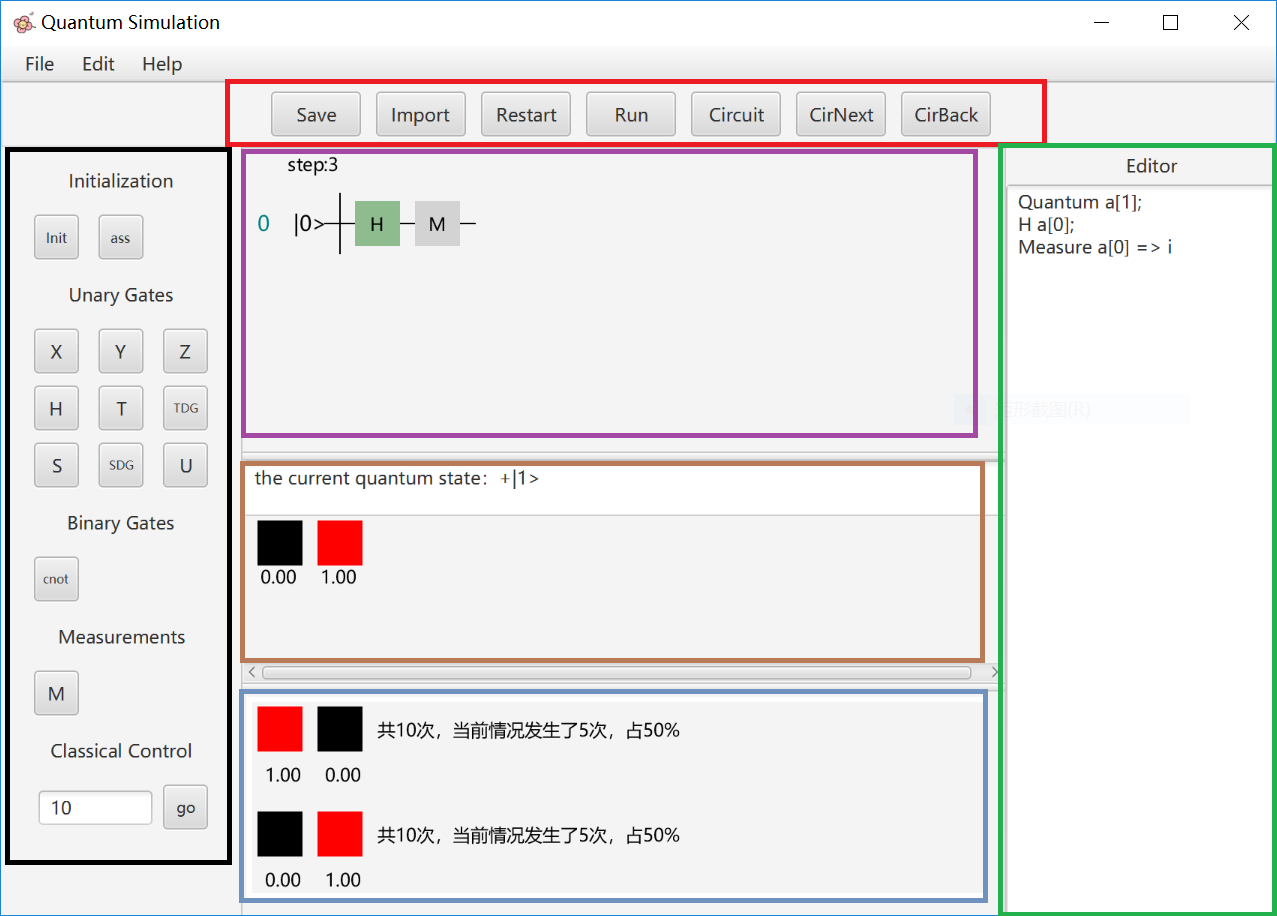
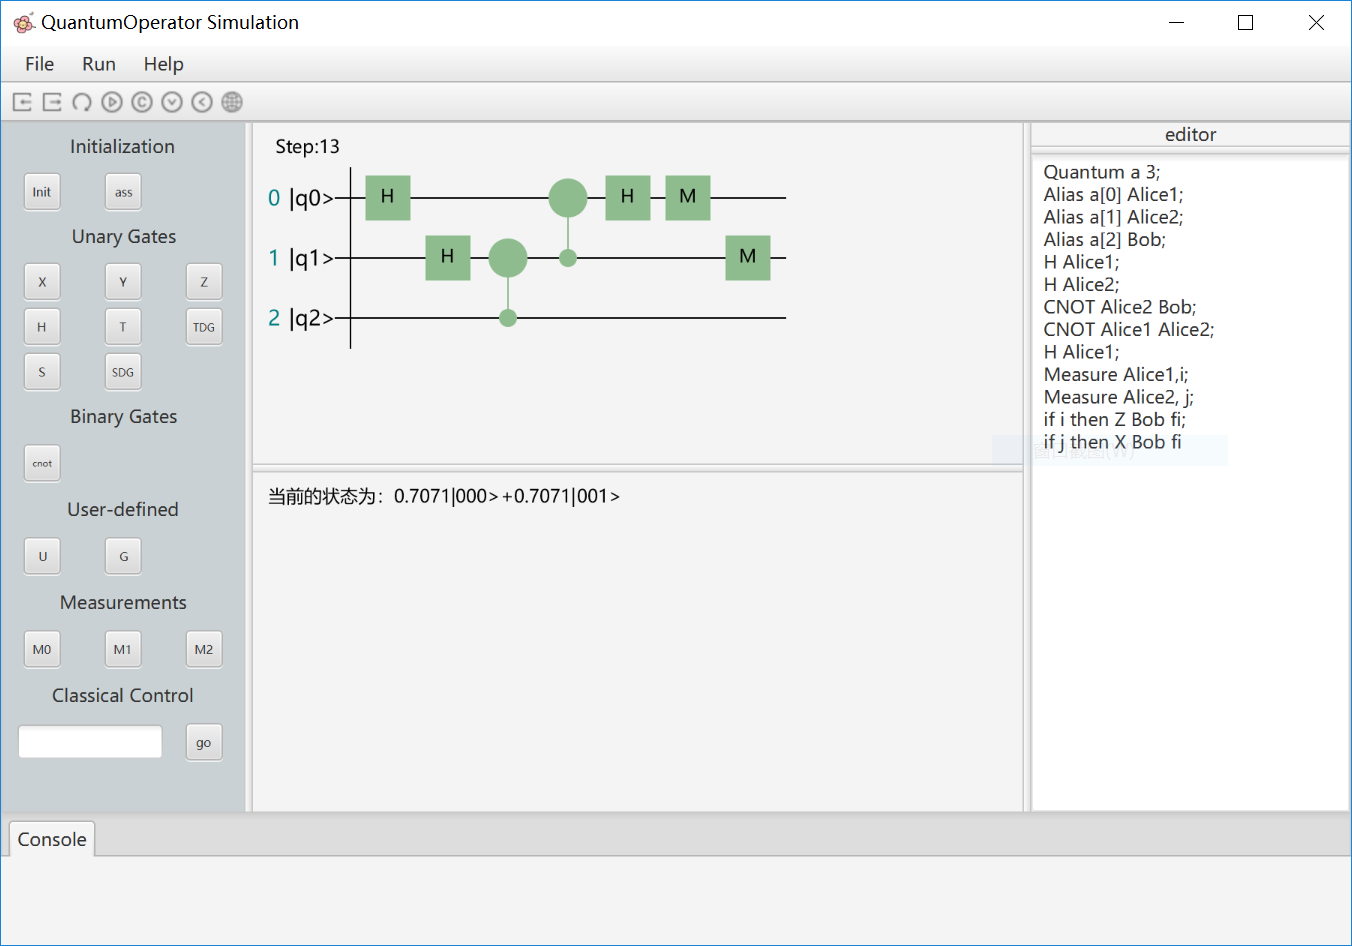
readme

Changed region(s): [[0.0, 0.0611, 1.0, 1.0], [0.0, 0.0, 0.2138, 0.0306]]

diff --git a/README.md b/README.md
@@ -1,42 +1,52 @@
-# Quantum-1.0.exe 
-Quantum-1.0.exe is an executable file as we can see in the same level
+
 # Source code
-You can clone my repository quan and it can run in eclipse, and you may need add j-science libaray
+You can clone my repository quan and it can run in intellij idea, you may need add j-science libaray
 # Qsimulation Grammer
 <pre>
-program --> statement {;statement}  
-statement --> declare | state   
-state --> if bool then state fi |  
-	  while bool do state od  |  
-	  Measure argument => ID |  
-	  IDstate |
-          Arraystate |
-          UOP |
-          BOP 
-declare --> Quantum Array | Quantum(exp,exp...) Array
-bool --> ID := INT
-argument --> ID | Array
-BOP --> CNOT argument argument
-UOP --> (X|Y|Z|S|SDG|T|TDG argument) | U(explist) argument
-explist --> exp; exp;exp;
-exp --> real | INT | pi |exp(+|-|/|* ) exp | -exp
+Program     --------> Declare { ; Statement }
+Declare     --------> Quantum Identifier INT [Explist]
+Statement  --------> Operator | Measurement | Show | Alias | IFStatement | Reset
+Operator    --------> UnaryOp | BinaryOp | GateOp | UOp
+UnaryOp     --------> X|Y|Z|S|SDG|T|TDG Argument
+BinaryOp    --------> CNOT Argument Argument
+GateOp      --------> Gate[Explist] Argument
+UOp         --------> U[Explist] Argument
+Measurement--------> Measure [ Argument Identifier ]
+Show        --------> Show
+Alias       --------> Alias Argument, Argument
+IFStatement---------> IF Bool Then Statement { ; Statement } FI
+Reset       ---------> Reset
+Bool       ----------> [!] Identifier
+Argument   ---------> Identifier | Array
+Explist    ---------> (Expression {, Expression})
+Expression ---------> Factor [+|-|*|/ Expression]
+Factor      ---------> [-] INT | Complex | Real
 
-ID := [a-zA-Z]* (without 'lastcome')
-real := ([0-9]+\.[0-9]* | [0-9]* \.[0-9]+)([eE][-+]?[0-9]+)?
 INT := [0-9]+
+Real := [0-9]+\.[0-9]*
+Complex := \< \-? Real \, \-? Real \>
+Identifier := [a-zA-Z]*
+Array := [a-zA-Z]*\[INT\]
+
 </pre>
-The list grammer has been used in the Qsimulation. We will add some useful grammer for example:statement "reset" , and statement "while", and these statements hava been shown in the code.
-# Qsimulation statements
+The list grammer has been used in the Qsimulation. We will add some useful grammer in the future.
+# QSimulation statements
 Statement  | Description 
 :-|:-
-Quantum name[size]   | Declare a quantum state
-Quantum name\[size\](param...)   | Declare a quantum state with parameters
-Identity := name[size] | Assignment
-Unary Identity \| name[size] | Apply built-in single qubit gate(H,S...)
-U(theta,phi,lambda) Identity \| name[size] | Apply built-in single qubit gate with parameters
-CNOT Identity \| name[size],Identity \| name[size] | Apply built-in CNOT gate
-Measure Identity \| name[size] =>Identity  | Make measurement
-if(Identity := int) then qop fi | Conditionally apply quantum operator
+
+Quantum Identifier INT	| 声明名为Identifier，含有INT位的量子寄存器
+Quantum Identifier INT Explist	| 声明名为Identifier，含有INT位的量子寄存器，并根据Explist初始化量子寄存器
+X|Y|Z|S|SDG|T|TDG Argument	| 内置单量子比特门操作
+U[Explist] Argument	| 单量子参数量子门操作
+CNOT Argument Argument	| 内置双量子比特门操作
+Gate[Explist] Argument	| 自定义量子门操作
+Measure 	| 量子状态的整体测量
+Measure [Argument Identifier ]	| 量子状态的子状态的测量
+Show	| 展示量子寄存器的当前状态
+Reset	| 重置量子寄存器
+Alias Argument, Argument	| 给一个Argument取别名为第二个Argument
+IF Bool Then Statement { ; Statement } FI	| 经典判断语句，根据测量结果，判断是否执行相对应操作
+
 
 # Qsimulation Structure
 <img src="/images/QSimulation.PNG">
@@ -93,36 +103,29 @@ Qsimulation presents seven functions : import , save , restart, run, circuit, ci
 - cirNext : you can debug the program
 - cirBack : you can debug the program
 
-## green box area
-It is code editor.
-## purple box area
-It will show quantum circuit.
-## yellow box area
-It will show the outcome.
-## blue box area
-It will show the final distribution of statistics.
 # Example
 There are some examples in the file "example".
 ## quantum teleportation
 <pre>
-Quantum a[3];
-Alice1 := a[0];
-Alice2 := a[1];
-Bob1 := a[2];
+Quantum a 3;
+Alias a[0] Alice1;
+Alias a[1] Alice2;
+Alias a[2] Bob;
 H Alice1;
 H Alice2;
-CNOT Alice2 Bob1;
+CNOT Alice2 Bob;
 CNOT Alice1 Alice2;
 H Alice1;
-Measure Alice1 => i;
-Measure Alice2 => j;
-if i==1 then Z Bob1 fi;
-if j==1 then X Bob1 fi
+Measure Alice1,i;
+Measure Alice2, j;
+if i then Z Bob fi;
+if j then X Bob fi
+
 </pre>
 
 ## quantum fourier transform
 <pre>
-Quantum q[3];
+Quantum q 3;
 X q[2];
 H q[0];
 T q[1];
@@ -146,4 +149,4 @@ CNOT q[0] q[2];
 CNOT q[2] q[0];
 CNOT q[0] q[2]
 </pre>
-Whenever you install Quantum-1.0.exe, it is easy to open the software.
+
